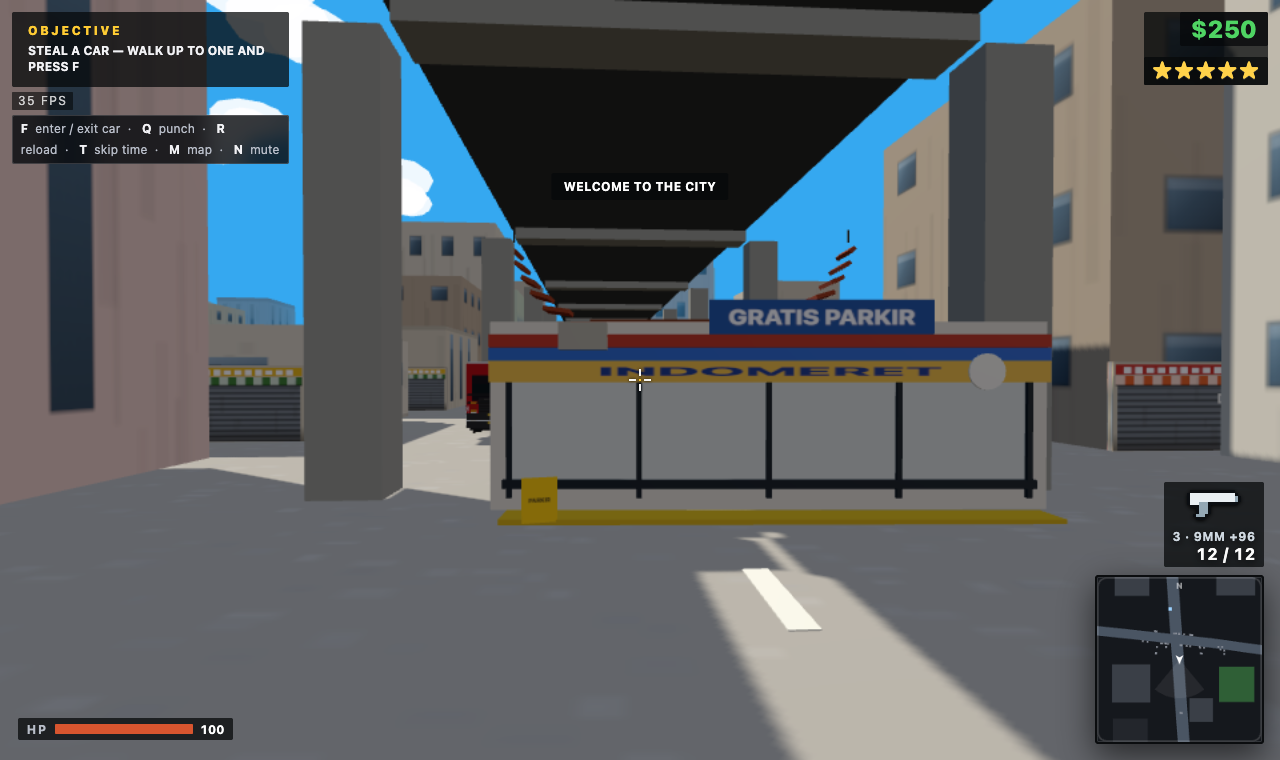
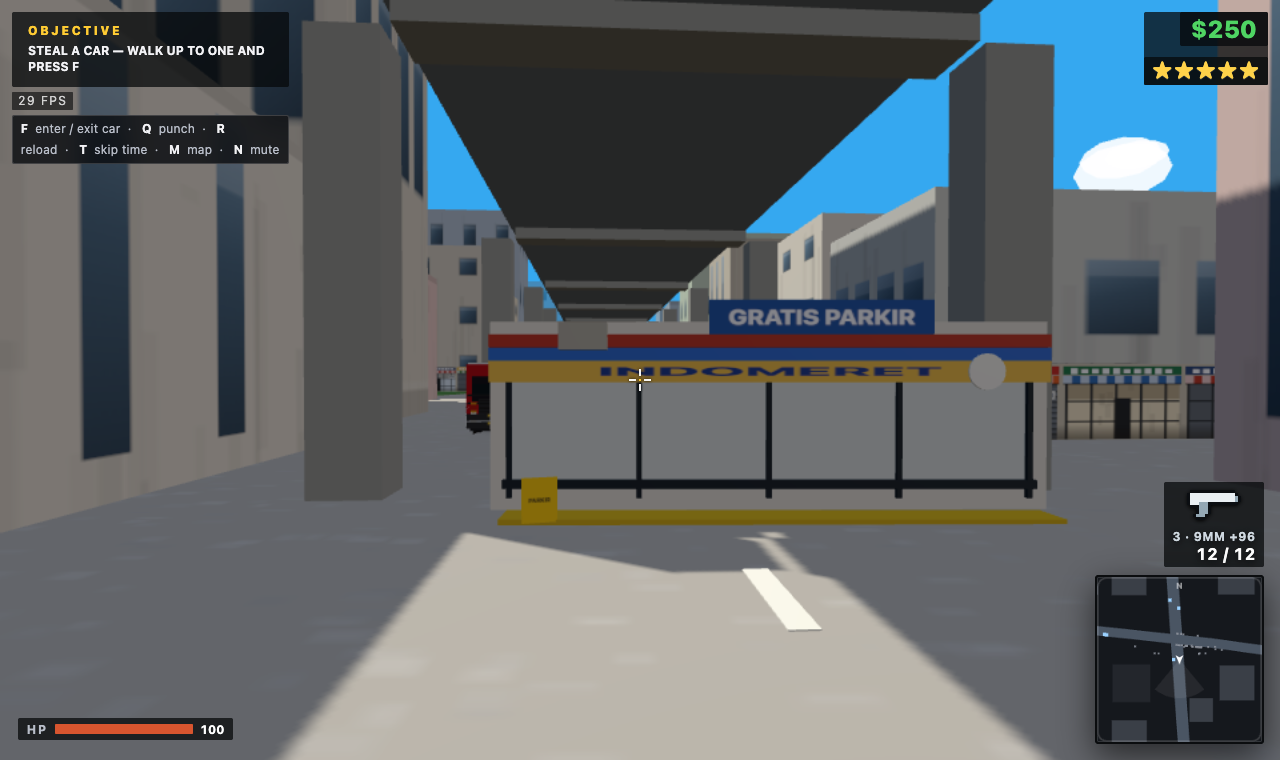
perf(world): one mesh per material for every building body
Bodies cost one draw call each, which was the largest single line in the frame.
They are now collected during generation and merged per material, per block
group -- keeping distance culling per block intact -- with frontage merged
separately because it lives outside the block groups. Facade materials are
shared by colour, style and repeat so the merge has something to merge.

Draw calls at the spawn view: 1494 -> 1308.

The overlap check moves to the footprint registry, which is where the invariant
is enforced: after merging, a scene scan sees one mesh spanning dozens of
buildings and reports 670 false pairs. Footprints: 2499, overlaps 0.

Also: the toll deck soffit was a black slab across the top of every frame taken
under it -- it only ever sees bounce light -- so it carries a little emission
now, the same fix the market roof needed.

diff --git a/src/world/city.ts b/src/world/city.ts
@@ -506,6 +506,35 @@ export class City {
     });
   }
 
+  /** Merge every collected building body into one mesh per material, per block group. */
+  finalizeBuildings() {
+    for (const { mat, geos } of this.frontageBuckets.values()) {
+      if (!geos.length) continue;
+      const merged = geos.length === 1 ? geos[0] : mergeGeometries(geos, false);
+      if (!merged) continue;
+      const mesh = new THREE.Mesh(merged, mat);
+      mesh.castShadow = true;
+      mesh.receiveShadow = true;
+      this.group.add(mesh);
+      for (const g of geos) g.dispose();
+    }
+    this.frontageBuckets.clear();
+
+    for (const [group, bucket] of this.buildingBuckets) {
+      for (const { mat, geos } of bucket.values()) {
+        if (!geos.length) continue;
+        const merged = geos.length === 1 ? geos[0] : mergeGeometries(geos, false);
+        if (!merged) continue;
+        const mesh = new THREE.Mesh(merged, mat);
+        mesh.castShadow = true;
+        mesh.receiveShadow = true;
+        group.add(mesh);
+        for (const g of geos) g.dispose();
+      }
+    }
+    this.buildingBuckets.clear();
+  }
+
   finalizePlinths() {
     for (let v = 0; v < this.plinthGeos.length; v++) {
       const list = this.plinthGeos[v];
@@ -790,6 +819,7 @@ export class City {
     this.buildLampInstances();
     this.buildTreeInstances();
     this.buildNightLights();
+    this.finalizeBuildings();
     this.finalizePlinths();
     this.finalizeSpawnClearance();
   }
@@ -1164,6 +1194,15 @@ export class City {
    */
   /** the deck the layang was built on, so a shop never ends up underneath it */
   layangSpine: [number, number][] = [];
+
+  /** facade materials shared by colour, style and repeat, so their geometry can be merged */
+  buildingMatCache = new Map<string, THREE.MeshStandardMaterial>();
+
+  /** geometry waiting to be merged, bucketed per block group and material */
+  buildingBuckets = new Map<THREE.Group, Map<string, { mat: THREE.Material; geos: THREE.BufferGeometry[] }>>();
+
+  /** frontage bodies live outside the block groups, so they merge into one set for the root */
+  frontageBuckets = new Map<string, { mat: THREE.Material; geos: THREE.BufferGeometry[] }>();
 
   /** every building footprint already placed, so two of them can never occupy the same ground */
   footprints: { minX: number; maxX: number; minZ: number; maxZ: number }[] = [];
@@ -1839,15 +1878,20 @@ export class City {
     const tex = windowTexture(wall, facade, rx, ry);
     const emis = emissiveTexture(rx, ry);
 
-    const sideMat = new THREE.MeshStandardMaterial({
-      map: tex,
-      emissive: 0xffffff,
-      emissiveMap: emis,
-      emissiveIntensity: 0,
-      roughness: 0.82,
-      metalness: 0.06,
-    });
-    this.emissiveMats.push(sideMat);
+    const matKey = `${wall}|${facade}|${rx}|${ry}`;
+    let sideMat = this.buildingMatCache.get(matKey);
+    if (!sideMat) {
+      sideMat = new THREE.MeshStandardMaterial({
+        map: tex,
+        emissive: 0xffffff,
+        emissiveMap: emis,
+        emissiveIntensity: 0,
+        roughness: 0.82,
+        metalness: 0.06,
+      });
+      this.buildingMatCache.set(matKey, sideMat);
+      this.emissiveMats.push(sideMat);
+    }
     const roofMat = new THREE.MeshStandardMaterial({ color: style ? style.roof : 0x4a4a4c, roughness: 0.95 });
     const mats = [sideMat, sideMat, roofMat, roofMat, sideMat, sideMat];
 
@@ -1863,11 +1907,18 @@ export class City {
       this.plinthGeos[variant].push(pg);
     }
 
-    const b = new THREE.Mesh(new THREE.BoxGeometry(w, h, d), mats);
-    b.position.set(x, h / 2 + 0.2, z);
-    b.castShadow = true;
-    b.receiveShadow = true;
-    this.group.add(b);
+    // One draw call per building was the single largest cost in the frame. Bodies that share a
+    // material come back as one mesh per block group, so distance culling still works per block
+    // while the block itself costs a handful of calls instead of dozens.
+    const bodyGeo = new THREE.BoxGeometry(w, h, d);
+    bodyGeo.translate(x, h / 2 + 0.2, z);
+    const bucket = this.buildingBuckets.get(this.group) ?? new Map();
+    const entry = bucket.get(matKey) ?? { mat: sideMat, geos: [] };
+    // the roof faces use a separate material, so they stay a separate merged bucket
+    entry.geos.push(bodyGeo);
+    bucket.set(matKey, entry);
+    this.buildingBuckets.set(this.group, bucket);
+    void mats;
 
     // Roofline by building type. A flat parapet on every box is what made the city read as
     // "all the same": a low shophouse in a kampung has a pitched clay roof, an office tower has
@@ -2786,13 +2837,22 @@ export class City {
               // one tile is one floor: ~3.2 m tall, 8 m wide. The repeat goes into the cache
               // key -- mutating tex.repeat here would mutate every building sharing that
               // texture, which is exactly what the cache made possible.
-              const tex = windowTexture(wall, facade, Math.max(1, Math.round(w / 8)), Math.max(1, Math.round(h / 3.2)));
-              const mat = new THREE.MeshStandardMaterial({ map: tex, roughness: 0.9 });
-              const body = new THREE.Mesh(new THREE.BoxGeometry(w, h, d), mat);
-              body.position.y = h / 2 + 0.3;
-              body.castShadow = true;
-              body.receiveShadow = true;
-              group.add(body);
+              const frx = Math.max(1, Math.round(w / 8));
+              const fry = Math.max(1, Math.round(h / 3.2));
+              const tex = windowTexture(wall, facade, frx, fry);
+              const fkey = `frontage|${wall}|${facade}|${frx}|${fry}`;
+              let mat = this.buildingMatCache.get(fkey);
+              if (!mat) {
+                mat = new THREE.MeshStandardMaterial({ map: tex, roughness: 0.9 });
+                this.buildingMatCache.set(fkey, mat);
+              }
+              // world transform of the body: rotate by the row angle, then move to its slot
+              const bodyGeo = new THREE.BoxGeometry(w, h, d);
+              bodyGeo.rotateY(group.rotation.y);
+              bodyGeo.translate(px, terrainHeight(px, pz) + h / 2 + 0.3, pz);
+              const fe = this.frontageBuckets.get(fkey) ?? { mat, geos: [] };
+              fe.geos.push(bodyGeo);
+              this.frontageBuckets.set(fkey, fe);
               // a shopfront band at street level so the row is not one blank slab
               const base = new THREE.Mesh(new THREE.BoxGeometry(w + 0.2, 3.2, 0.3), shopfrontMat());
               base.position.set(0, 1.9, -d / 2 - 0.16);

diff --git a/src/world/layang.ts b/src/world/layang.ts
@@ -34,7 +34,9 @@ export function buildLayang(ctx: LayangCtx, path: [number, number][], opts: Laya
   const concrete = new THREE.MeshStandardMaterial({ color: 0x9a9a94, roughness: 0.95 });
   // the soffit faces down, so the hemisphere light's ground colour is all it ever sees;
   // a mid grey came out mossy green. Dark concrete keeps it a shadowed underside.
-  const deckMat = new THREE.MeshStandardMaterial({ color: 0x4a4d51, roughness: 0.98 });
+  // the soffit sees only bounce light; without a little self-emission it renders as a black
+  // slab across the top of every frame taken under the deck
+  const deckMat = new THREE.MeshStandardMaterial({ color: 0x6d7175, roughness: 0.98, emissive: 0x1b1e21, emissiveIntensity: 0.6 });
   const railMat = new THREE.MeshStandardMaterial({ color: 0xc9c6bc, roughness: 0.9 });
 
   const deckM: THREE.Matrix4[] = [];
